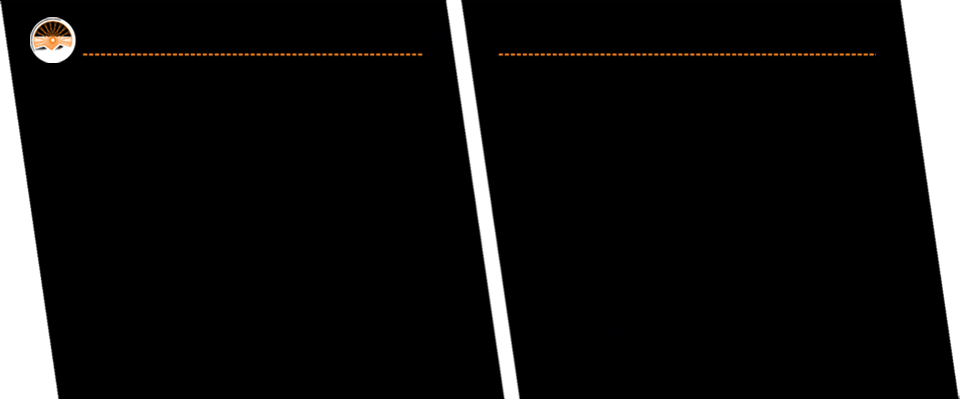
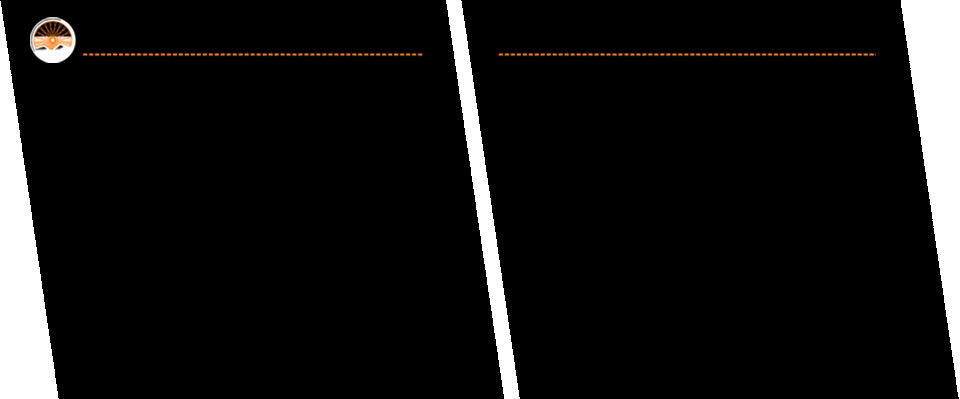
Changes solid black styling to 90% transparency

Changed region(s): [[0.5, 0.6015, 0.5312, 0.812], [0.4688, 0.2105, 0.5, 0.3008], [0.4688, 0.1203, 0.5, 0.1805]]

diff --git a/httpdocs/wp-content/themes/tourofcrete/style.css b/httpdocs/wp-content/themes/tourofcrete/style.css
@@ -1528,7 +1528,7 @@ Content Area
 /* Inner Pages
 --------------------------------------------- */
 .FullFrame{
-	background:#000;
+	background: rgba(0, 0, 0, 0.9) none repeat scroll 0% 0%;	/* -K */
 	width:902px;
 	height:auto; 
 	overflow:hidden;
@@ -2163,7 +2163,7 @@ Footer Widgets
 	}
 	
 	.sponsors .content{
-		background:#000;
+		background: rgba(0, 0, 0, 0.9) none repeat scroll 0% 0%;	/* -K */
 		width:100%;
 		height:auto;
 		overflow:hidden;
